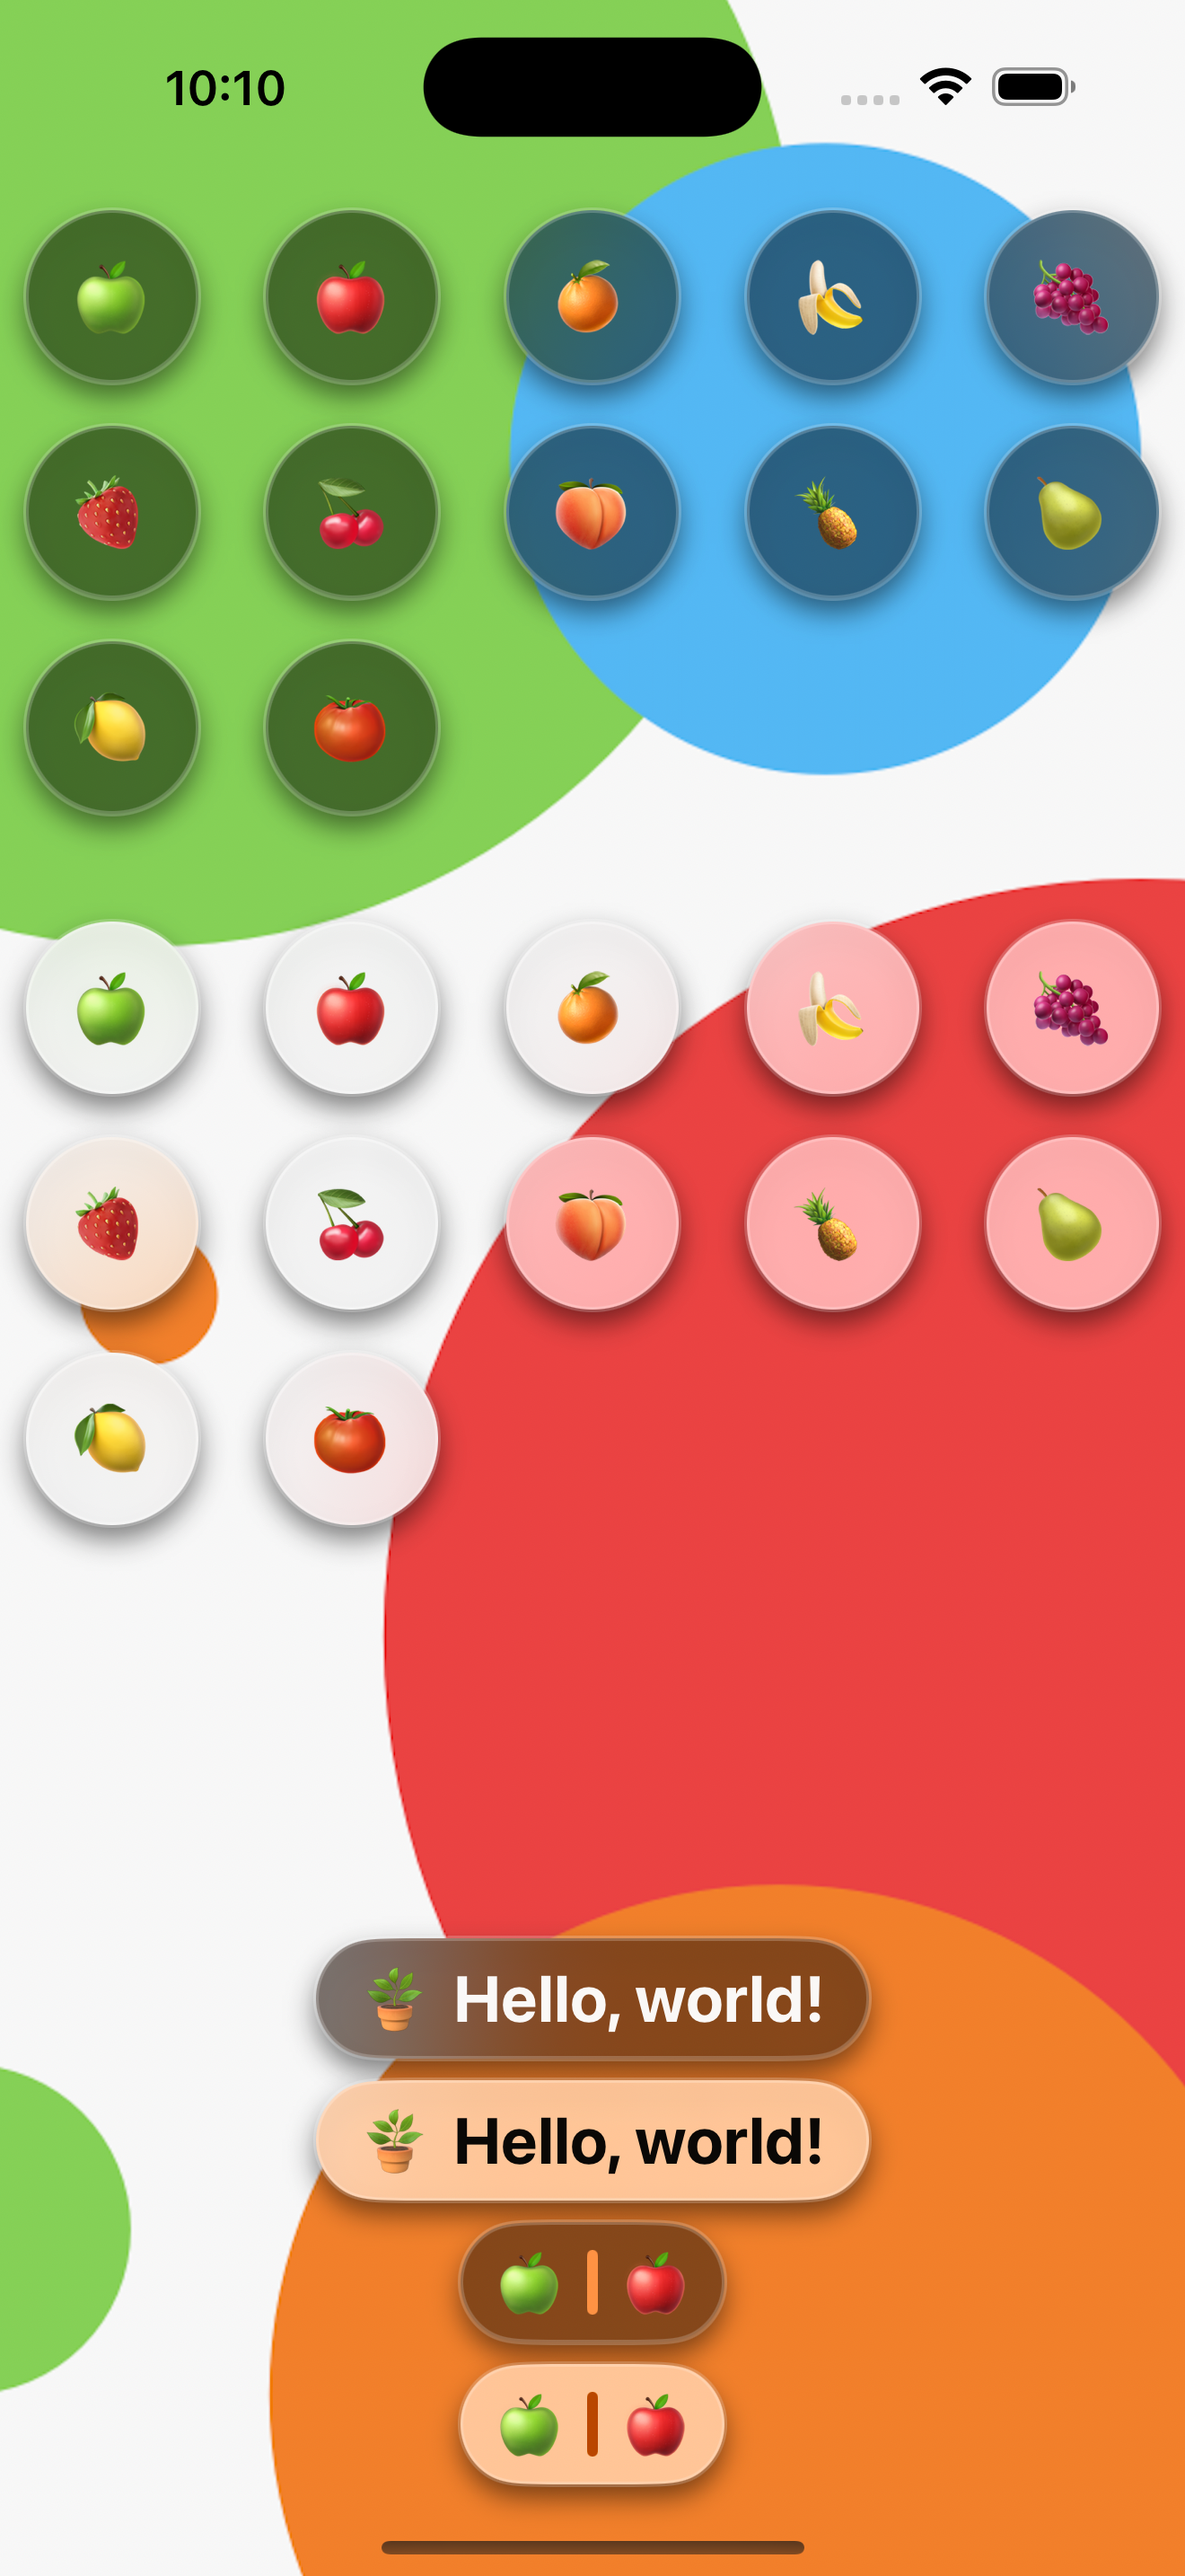
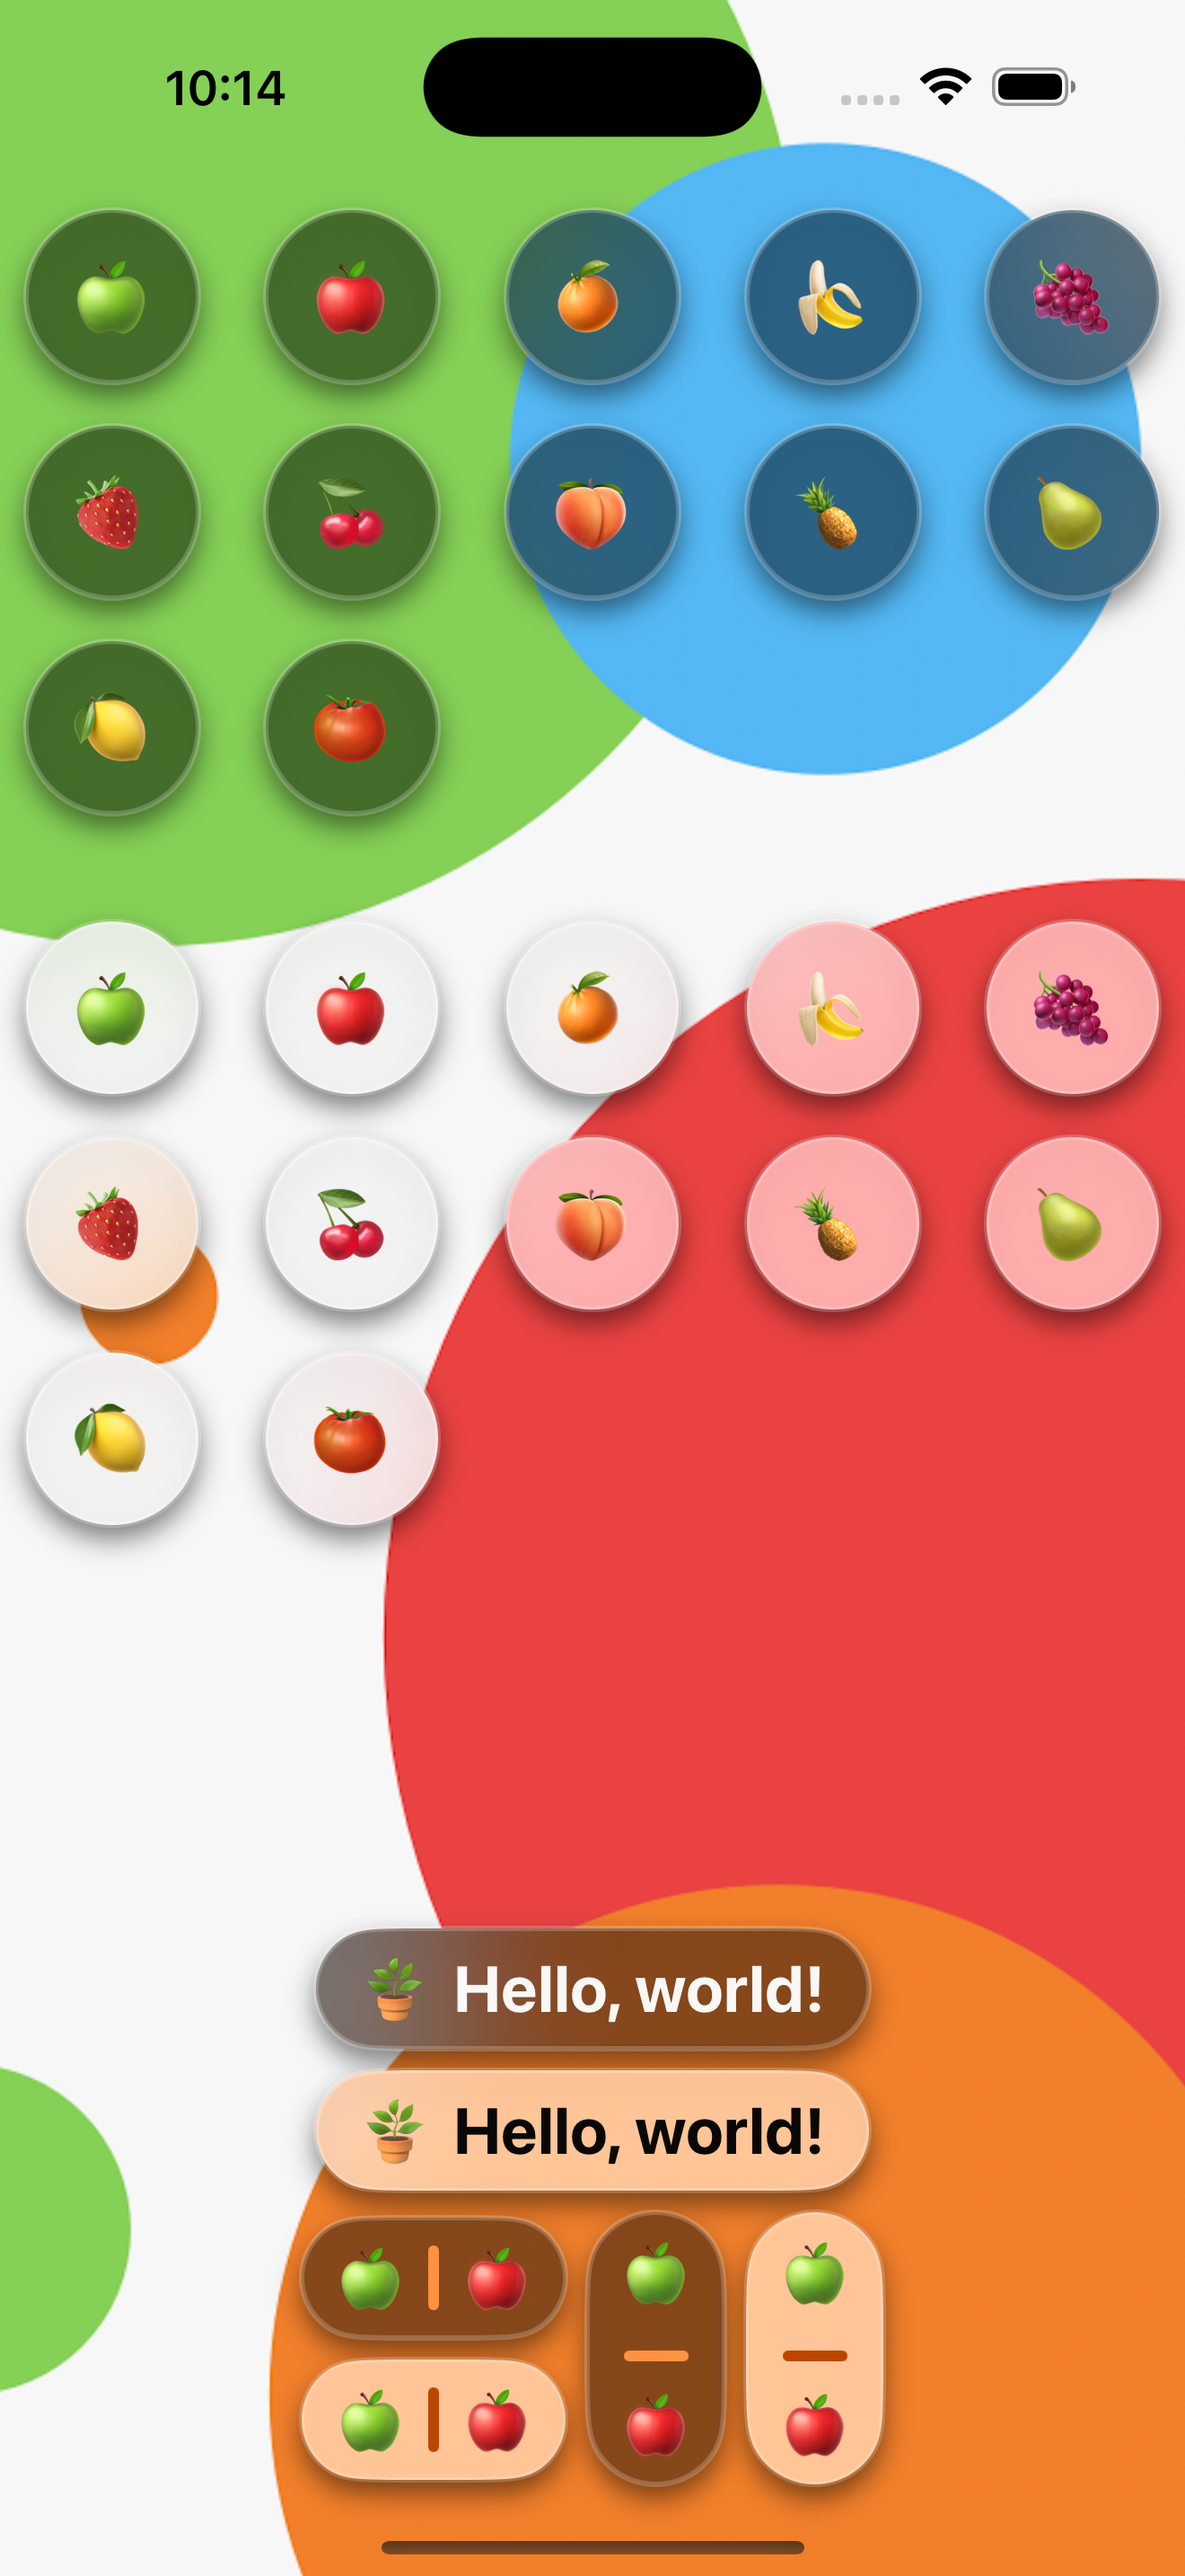
Update modifiers

Changed region(s): [[0.2485, 0.7448, 0.7765, 0.993], [0.2174, 0.031, 0.2485, 0.0621]]

diff --git a/aGlassButton/GlassButton.swift b/aGlassButton/GlassButton.swift
@@ -28,9 +28,9 @@ struct GlassLook: ViewModifier {
     }
 }
 
-// MARK: - Glass Button
+// MARK: - Touch Button
 
-struct GlassButton: ViewModifier {
+struct TouchButton: ViewModifier {
     @State private var touched: Bool = false
     var touchDownAction: VoidAction? = nil
     var touchDownContinuousAction: VoidAction? = nil
@@ -38,7 +38,6 @@ struct GlassButton: ViewModifier {
 
     func body(content: Content) -> some View {
         content
-            .glass()
             .onTouchOverlay(perform: { state, _, _ in
                 withAnimation(.easeInOut(duration: 0.1)) {
                     if state == .firstStarted {
@@ -68,11 +67,12 @@ struct GlassButton: ViewModifier {
     }
 }
 
-// MARK: - Glass Two Sided Buttons
+// MARK: - Two Sided Buttons
 
-struct GlassTwoButtons: ViewModifier {
+struct SideTouchButtons: ViewModifier {
     @State private var touched1: Bool = false
     @State private var touched2: Bool = false
+    var isVertical: Bool = false
     var touchDownAction1: VoidAction? = nil
     var touchDownContinuousAction1: VoidAction? = nil
     var touchUpAction1: VoidAction? = nil
@@ -82,7 +82,6 @@ struct GlassTwoButtons: ViewModifier {
 
     func body(content: Content) -> some View {
         content
-            .glass()
             .background(
                 Group {
                     if touched1 || touched2 {
@@ -98,40 +97,69 @@ struct GlassTwoButtons: ViewModifier {
                 }
             )
             .rotation3DEffect(
-                .degrees(touched1 ? -6 : touched2 ? 6 : 0), axis: (x: 0.0, y: 1.0, z: 0.0)
+                .degrees(touched1 ? -6 : touched2 ? 6 : 0), axis: (x: isVertical ? -1.0 : 0.0, y: isVertical ? 0.0 : 1.0, z: 0.0)
             )
             .scaleEffect(x: (touched1 || touched2) ? 0.96 : 1.0, y: (touched1 || touched2) ? 0.96 : 1.0)
             .shadow(color:.black.opacity(0.5), radius: 5, y: 5)
             .animation(.easeInOut(duration: 0.1), value: touched1)
             .animation(.easeInOut(duration: 0.1), value: touched2)
-            .overlay(
-                HStack(spacing: 0) {
-                    Rectangle()
-                        .fill(.clear)
-                        .onTouchOverlay(perform: { state, _, _ in
-                            if state == .firstStarted {
-                                touched1 = true
-                                touchDownAction1?()
-                            }
-                            if state == .lastEnded {
-                                touched1 = false
-                                touchUpAction1?()
-                            }
-                        })
-                    Rectangle()
-                        .fill(.clear)
-                        .onTouchOverlay(perform: { state, _, _ in
-                            if state == .firstStarted {
-                                touched2 = true
-                                touchDownAction2?()
-                            }
-                            if state == .lastEnded {
-                                touched2 = false
-                                touchUpAction2?()
-                            }
-                        })
+            .overlay {
+                if isVertical {
+                    VStack(spacing: 0) {
+                        Rectangle()
+                            .fill(.clear)
+                            .onTouchOverlay(perform: { state, _, _ in
+                                if state == .firstStarted {
+                                    touched1 = true
+                                    touchDownAction1?()
+                                }
+                                if state == .lastEnded {
+                                    touched1 = false
+                                    touchUpAction1?()
+                                }
+                            })
+                        Rectangle()
+                            .fill(.clear)
+                            .onTouchOverlay(perform: { state, _, _ in
+                                if state == .firstStarted {
+                                    touched2 = true
+                                    touchDownAction2?()
+                                }
+                                if state == .lastEnded {
+                                    touched2 = false
+                                    touchUpAction2?()
+                                }
+                            })
+                    }
+                } else {
+                    HStack(spacing: 0) {
+                        Rectangle()
+                            .fill(.clear)
+                            .onTouchOverlay(perform: { state, _, _ in
+                                if state == .firstStarted {
+                                    touched1 = true
+                                    touchDownAction1?()
+                                }
+                                if state == .lastEnded {
+                                    touched1 = false
+                                    touchUpAction1?()
+                                }
+                            })
+                        Rectangle()
+                            .fill(.clear)
+                            .onTouchOverlay(perform: { state, _, _ in
+                                if state == .firstStarted {
+                                    touched2 = true
+                                    touchDownAction2?()
+                                }
+                                if state == .lastEnded {
+                                    touched2 = false
+                                    touchUpAction2?()
+                                }
+                            })
+                    }
                 }
-            )
+            }
     }
 }
 
@@ -144,12 +172,24 @@ extension View {
         modifier(GlassLook(cornerSize: corner))
     }
     
+    func touchButton(downAction: VoidAction? = nil, downContAction: VoidAction? = nil, upAction: VoidAction? = nil) -> some View {
+        modifier(TouchButton(touchDownAction: downAction, touchDownContinuousAction: downContAction , touchUpAction: upAction))
+    }
+    
+    func sideTouchButton(vertical: Bool = false, downAction1: VoidAction? = nil, downContAction1: VoidAction? = nil, upAction1: VoidAction? = nil, downAction2: VoidAction? = nil, downContAction2: VoidAction? = nil, upAction2: VoidAction? = nil) -> some View {
+        modifier(SideTouchButtons(isVertical: vertical, touchDownAction1: downAction1, touchDownContinuousAction1: downContAction1 , touchUpAction1: upAction1, touchDownAction2: downAction2, touchDownContinuousAction2: downContAction2 , touchUpAction2: upAction2))
+    }
+    
     func glassButton(downAction: VoidAction? = nil, downContAction: VoidAction? = nil, upAction: VoidAction? = nil) -> some View {
-        modifier(GlassButton(touchDownAction: downAction, touchDownContinuousAction: downContAction , touchUpAction: upAction))
+        self
+            .glass()
+            .modifier(TouchButton(touchDownAction: downAction, touchDownContinuousAction: downContAction , touchUpAction: upAction))
     }
 
-    func glassTwoSideButton(downAction1: VoidAction? = nil, downContAction1: VoidAction? = nil, upAction1: VoidAction? = nil, downAction2: VoidAction? = nil, downContAction2: VoidAction? = nil, upAction2: VoidAction? = nil) -> some View {
-        modifier(GlassTwoButtons(touchDownAction1: downAction1, touchDownContinuousAction1: downContAction1 , touchUpAction1: upAction1, touchDownAction2: downAction2, touchDownContinuousAction2: downContAction2 , touchUpAction2: upAction2))
+    func glassSideButton(vertical: Bool = false, downAction1: VoidAction? = nil, downContAction1: VoidAction? = nil, upAction1: VoidAction? = nil, downAction2: VoidAction? = nil, downContAction2: VoidAction? = nil, upAction2: VoidAction? = nil) -> some View {
+        self
+            .glass()
+            .modifier(SideTouchButtons(isVertical: vertical, touchDownAction1: downAction1, touchDownContinuousAction1: downContAction1 , touchUpAction1: upAction1, touchDownAction2: downAction2, touchDownContinuousAction2: downContAction2 , touchUpAction2: upAction2))
     }
 }
 

diff --git a/aGlassButton/ContentView.swift b/aGlassButton/ContentView.swift
@@ -80,48 +80,96 @@ struct ContentView: View {
                     upAction: {print("UP")}
                 )
                 .colorScheme(.light)
-                
+
                 HStack {
-                    Text("🍏")
-                    Rectangle()
-                        .frame(width: 4, height: 24)
-                        .cornerRadius(2)
-                    Text("🍎")
+                    VStack {
+                        HStack {
+                            Text("🍏")
+                            Rectangle()
+                                .frame(width: 4, height: 24)
+                                .cornerRadius(2)
+                            Text("🍎")
+                        }
+                        .font(.system(size: 24, weight: .bold))
+                        .padding(.horizontal, 12)
+                        .padding(.vertical, 8)
+                        .containerShape(Rectangle())
+                        .glassSideButton(
+                            downAction1: {print("🍏 DOWN")},
+                            downContAction1: {print("🍏 DOWN CONTINUE")},
+                            upAction1: {print("🍏 UP")},
+                            downAction2: {print("🍎 DOWN")},
+                            downContAction2: {print("🍎 DOWN CONTINUE")},
+                            upAction2: {print("🍎 UP")}
+                        )
+                        .colorScheme(.dark)
+                        
+                        HStack {
+                            Text("🍏")
+                            Rectangle()
+                                .frame(width: 4, height: 24)
+                                .cornerRadius(2)
+                            Text("🍎")
+                        }
+                        .font(.system(size: 24, weight: .bold))
+                        .padding(.horizontal, 12)
+                        .padding(.vertical, 8)
+                        .containerShape(Rectangle())
+                        .glassSideButton(
+                            downAction1: {print("🍏 DOWN")},
+                            downContAction1: {print("🍏 DOWN CONTINUE")},
+                            upAction1: {print("🍏 UP")},
+                            downAction2: {print("🍎 DOWN")},
+                            downContAction2: {print("🍎 DOWN CONTINUE")},
+                            upAction2: {print("🍎 UP")}
+                        )
+                        .colorScheme(.light)
+                    }
+                    
+                    VStack {
+                        Text("🍏")
+                        Rectangle()
+                            .frame(width: 24, height: 4)
+                            .cornerRadius(2)
+                        Text("🍎")
+                    }
+                    .font(.system(size: 24, weight: .bold))
+                    .padding(.horizontal, 12)
+                    .padding(.vertical, 8)
+                    .containerShape(Rectangle())
+                    .glassSideButton(
+                        vertical: true,
+                        downAction1: {print("🍏 DOWN")},
+                        downContAction1: {print("🍏 DOWN CONTINUE")},
+                        upAction1: {print("🍏 UP")},
+                        downAction2: {print("🍎 DOWN")},
+                        downContAction2: {print("🍎 DOWN CONTINUE")},
+                        upAction2: {print("🍎 UP")}
+                    )
+                    .colorScheme(.dark)
+                    
+                    VStack {
+                        Text("🍏")
+                        Rectangle()
+                            .frame(width: 24, height: 4)
+                            .cornerRadius(2)
+                        Text("🍎")
+                    }
+                    .font(.system(size: 24, weight: .bold))
+                    .padding(.horizontal, 12)
+                    .padding(.vertical, 8)
+                    .containerShape(Rectangle())
+                    .glassSideButton(
+                        vertical: true,
+                        downAction1: {print("🍏 DOWN")},
+                        downContAction1: {print("🍏 DOWN CONTINUE")},
+                        upAction1: {print("🍏 UP")},
+                        downAction2: {print("🍎 DOWN")},
+                        downContAction2: {print("🍎 DOWN CONTINUE")},
+                        upAction2: {print("🍎 UP")}
+                    )
+                    .colorScheme(.light)
                 }
-                .font(.system(size: 24, weight: .bold))
-                .padding(.horizontal, 12)
-                .padding(.vertical, 8)
-                .containerShape(Rectangle())
-                .glassTwoSideButton(
-                    downAction1: {print("🍏 DOWN")},
-                    downContAction1: {print("🍏 DOWN CONTINUE")},
-                    upAction1: {print("🍏 UP")},
-                    downAction2: {print("🍎 DOWN")},
-                    downContAction2: {print("🍎 DOWN CONTINUE")},
-                    upAction2: {print("🍎 UP")}
-                )
-                .colorScheme(.dark)
-                
-                HStack {
-                    Text("🍏")
-                    Rectangle()
-                        .frame(width: 4, height: 24)
-                        .cornerRadius(2)
-                    Text("🍎")
-                }
-                .font(.system(size: 24, weight: .bold))
-                .padding(.horizontal, 12)
-                .padding(.vertical, 8)
-                .containerShape(Rectangle())
-                .glassTwoSideButton(
-                    downAction1: {print("🍏 DOWN")},
-                    downContAction1: {print("🍏 DOWN CONTINUE")},
-                    upAction1: {print("🍏 UP")},
-                    downAction2: {print("🍎 DOWN")},
-                    downContAction2: {print("🍎 DOWN CONTINUE")},
-                    upAction2: {print("🍎 UP")}
-                )
-                .colorScheme(.light)
             }
         }
         .frame(maxWidth: .infinity, maxHeight: .infinity)
